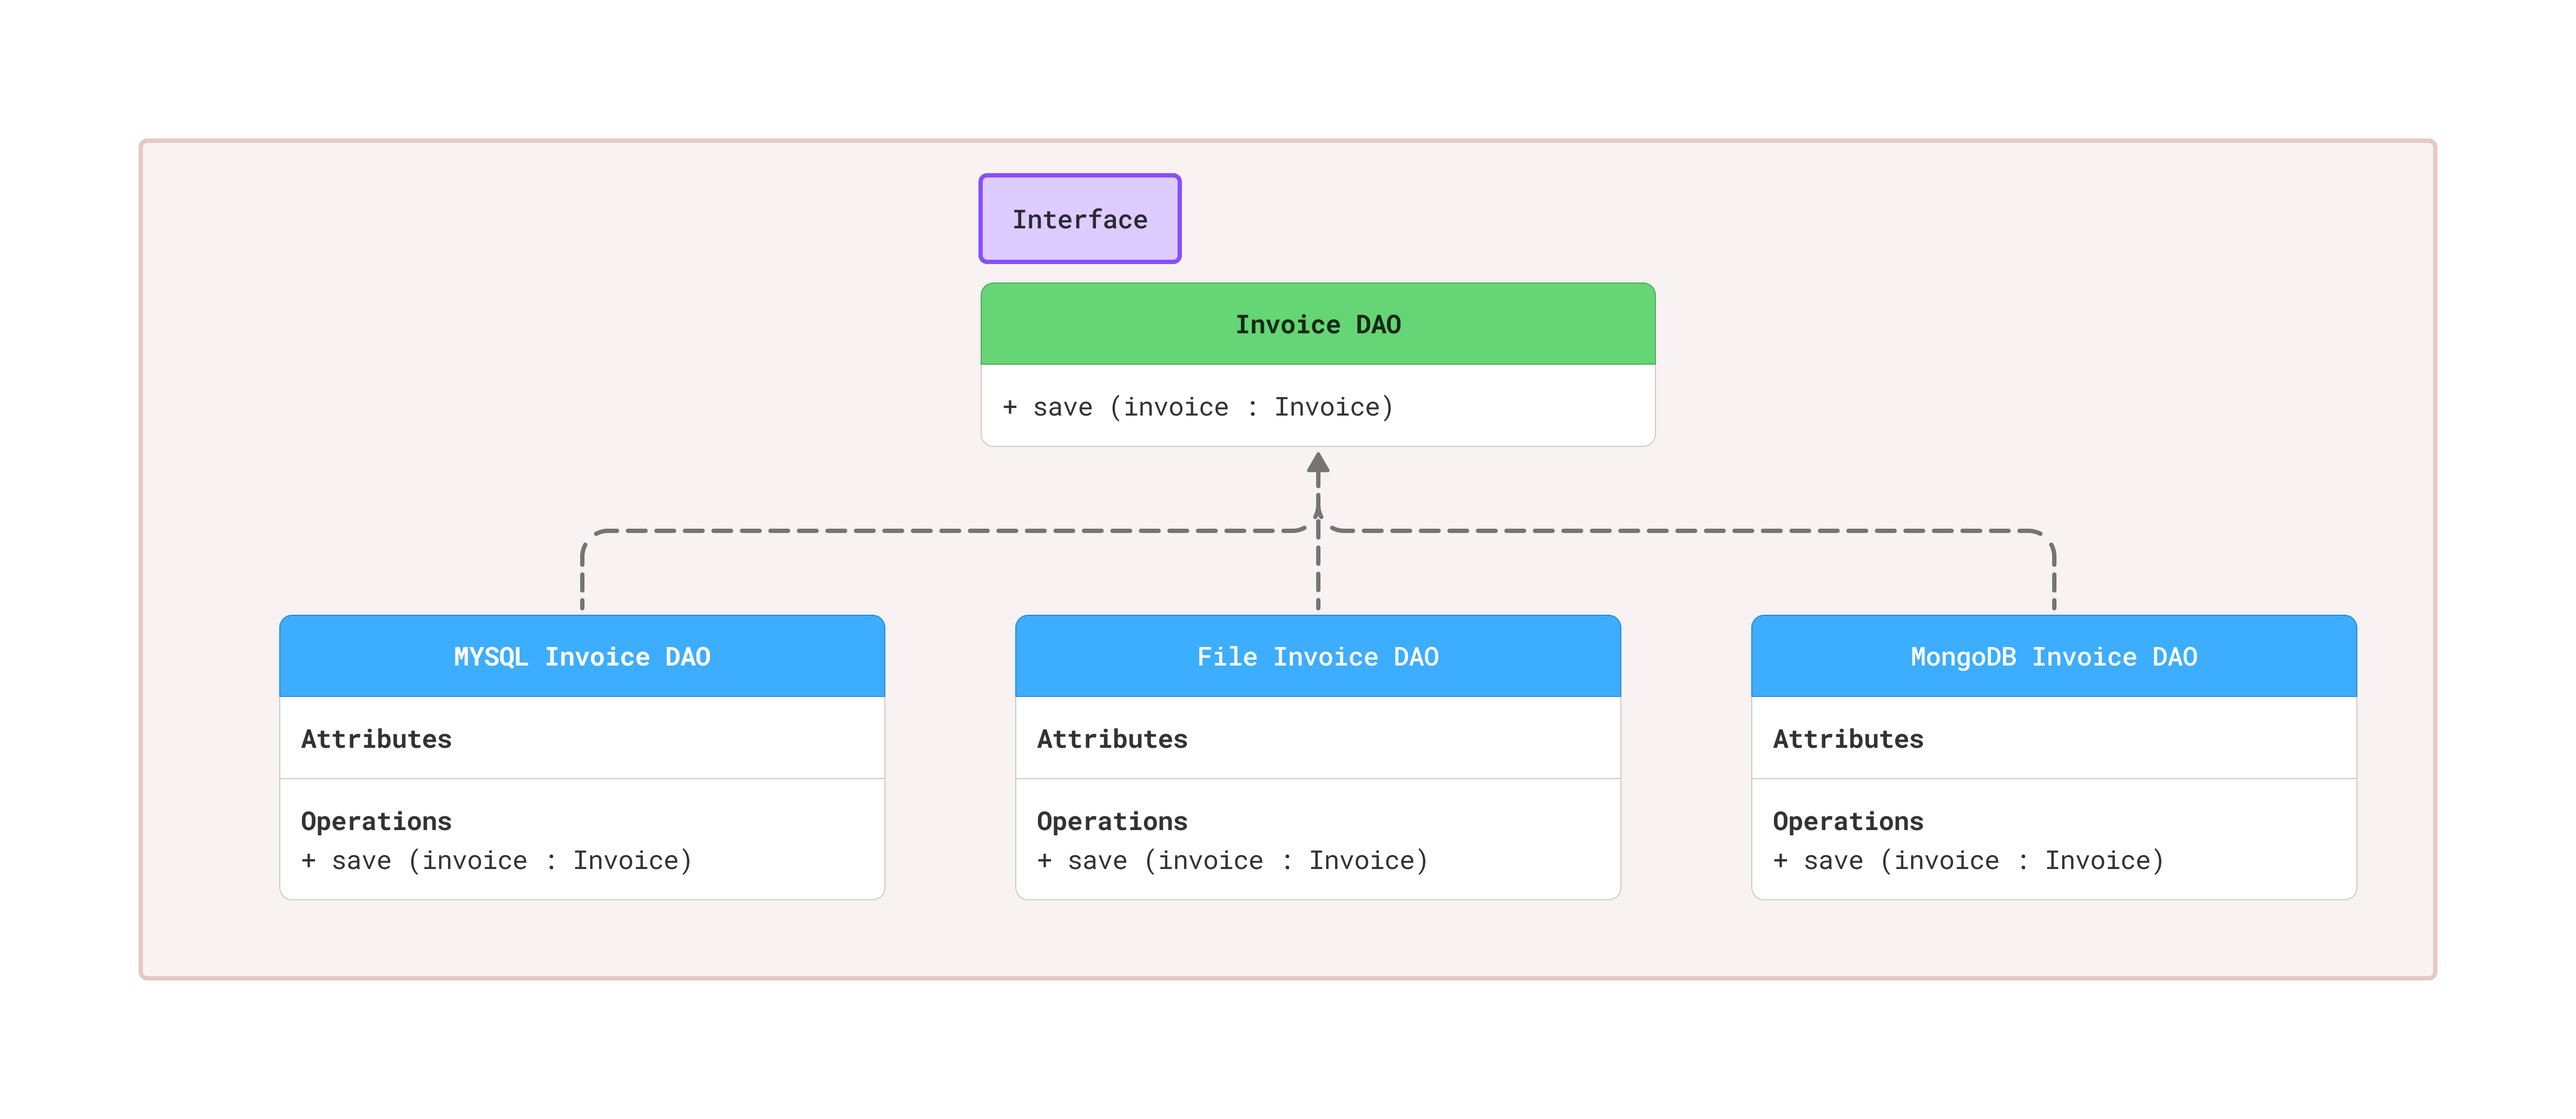
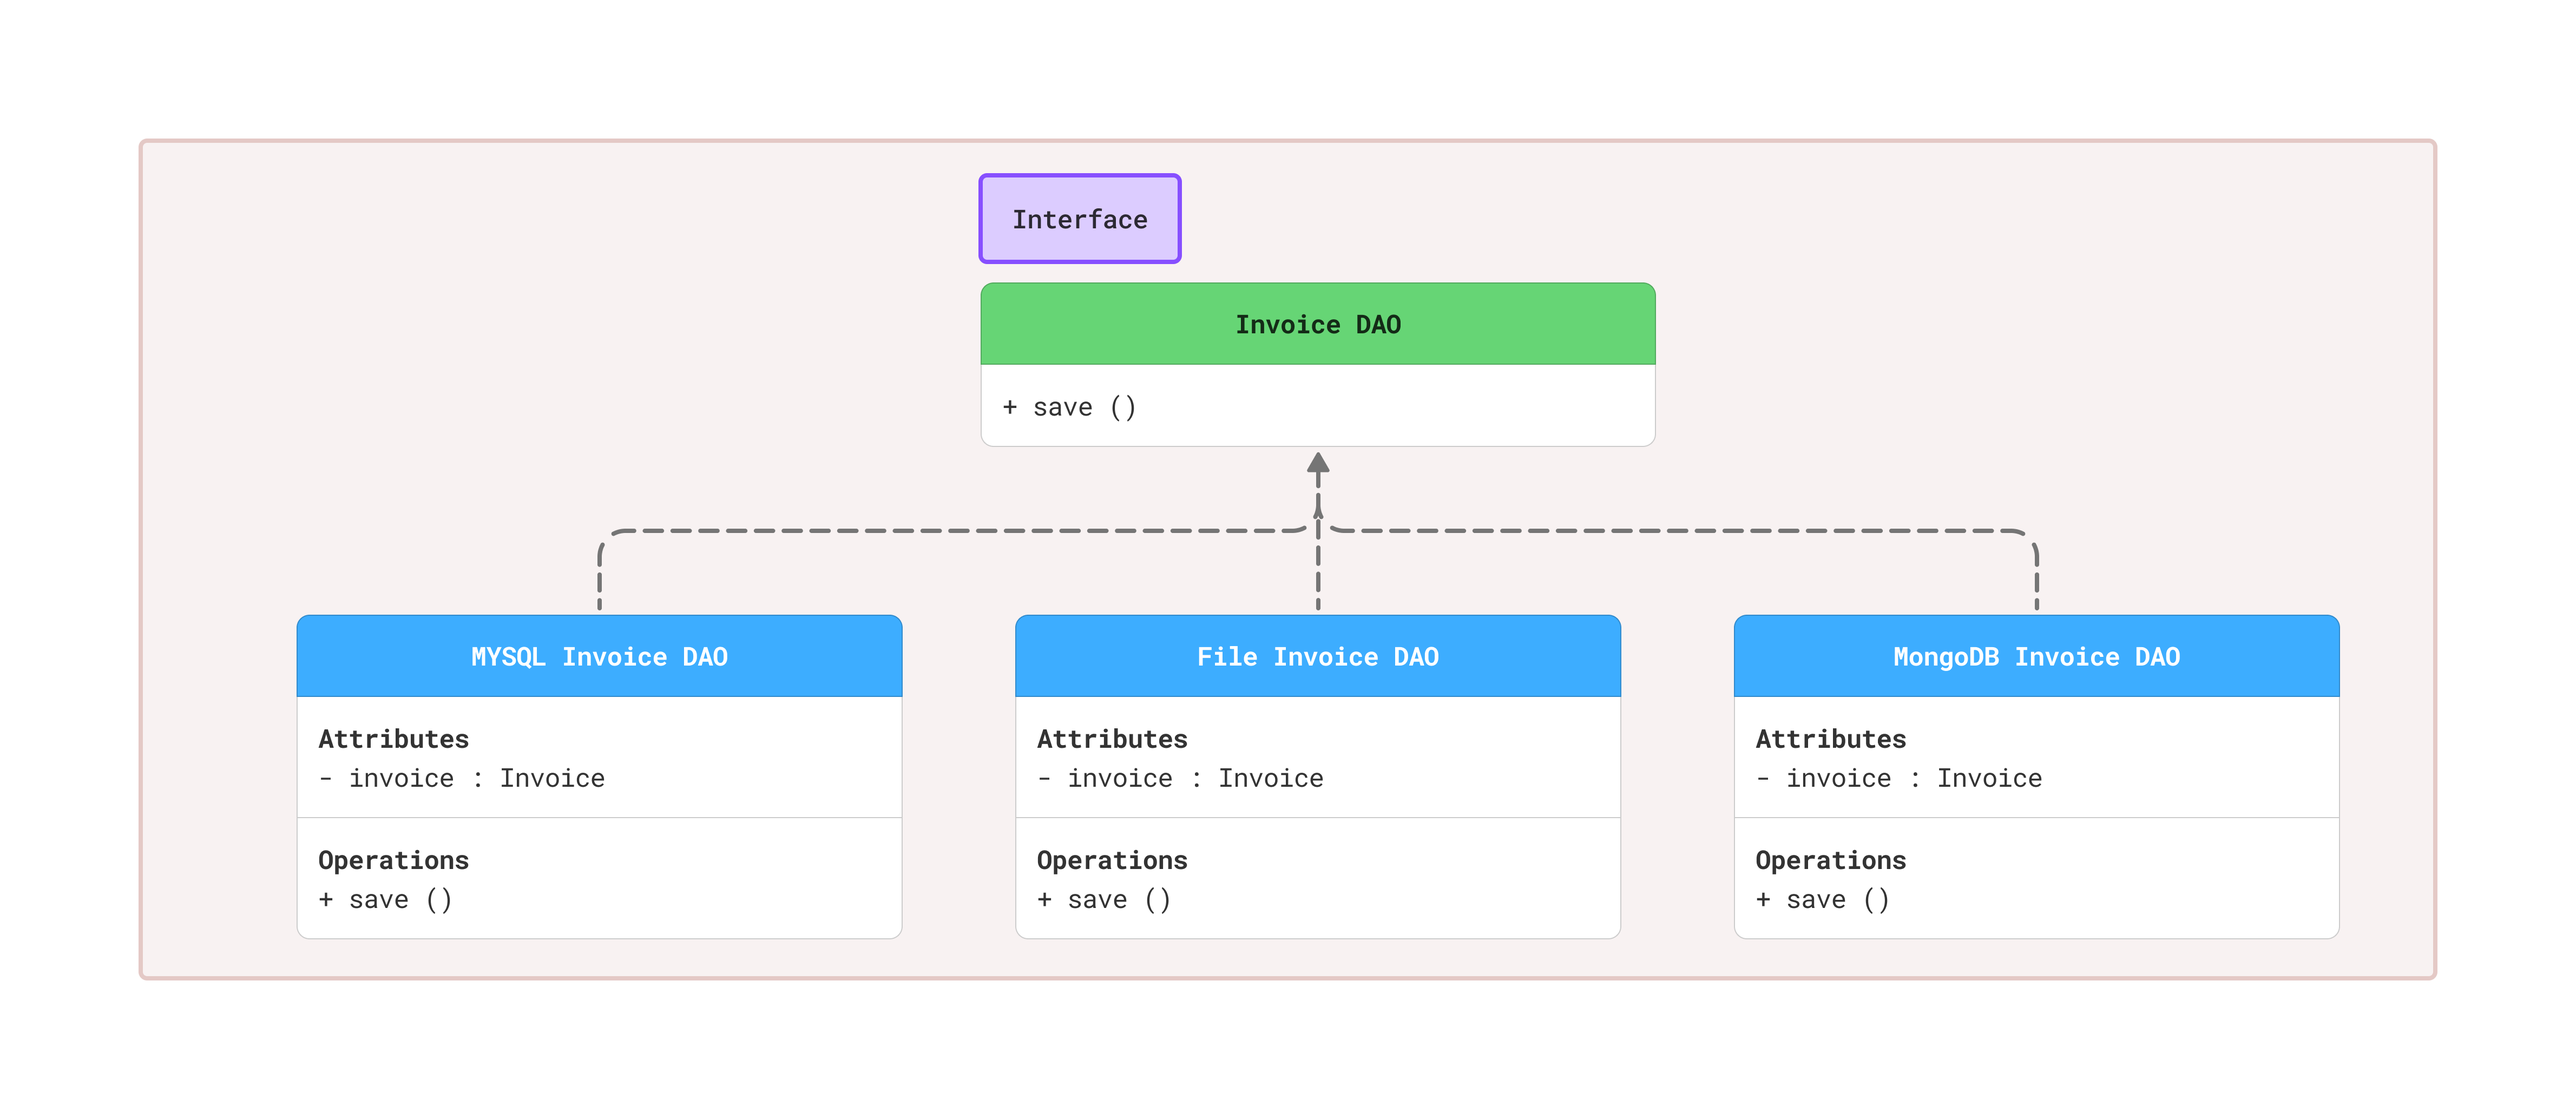
SOLID : Open Closed Principle

diff --git a/src/solid/ocp/solution/Main.java b/src/solid/ocp/solution/Main.java
@@ -1,0 +1,22 @@
+package solid.ocp.solution;
+
+import solid.ocp.solution.invoiceDAO.FileInvoiceDAO;
+import solid.ocp.solution.invoice.Invoice;
+import solid.ocp.solution.invoiceDAO.MongoDBInvoiceDAO;
+import solid.ocp.solution.invoiceDAO.MySQLInvoiceDAO;
+import solid.ocp.solution.marker.Marker;
+
+public class Main {
+    public static void main(String[] args) {
+        Marker marker = new Marker("Reynolds", "Pink", 2025, 90);
+        Invoice invoice = new Invoice(marker, 324);
+
+        FileInvoiceDAO fileInvoiceDAO = new FileInvoiceDAO(invoice);
+        MongoDBInvoiceDAO mongoDBInvoiceDAO = new MongoDBInvoiceDAO(invoice);
+        MySQLInvoiceDAO mySQLInvoiceDAO = new MySQLInvoiceDAO(invoice);
+
+        fileInvoiceDAO.save();
+        mongoDBInvoiceDAO.save();
+        mySQLInvoiceDAO.save();
+    }
+}

diff --git a/src/solid/ocp/problem/Main.java b/src/solid/ocp/problem/Main.java
@@ -1,0 +1,19 @@
+package solid.ocp.problem;
+
+import solid.ocp.problem.invoice.Invoice;
+import solid.ocp.problem.invoice.InvoiceDAO;
+import solid.ocp.problem.marker.Marker;
+
+public class Main {
+    public static void main(String[] args) {
+        Marker marker = new Marker("Reynolds", "Green", 2025, 90);
+        Invoice invoice = new Invoice(marker, 68);
+        InvoiceDAO invoiceDAO = new InvoiceDAO(invoice);
+
+        int totalPrice = invoice.calculateTotal();
+        System.out.println(totalPrice);
+
+        invoiceDAO.saveToDB();
+        invoiceDAO.saveToFile();
+    }
+}

diff --git a/src/solid/ocp/solution/invoice/Invoice.java b/src/solid/ocp/solution/invoice/Invoice.java
@@ -1,0 +1,19 @@
+package solid.ocp.solution.invoice;
+
+import solid.ocp.solution.marker.Marker;
+
+public class Invoice {
+    final private Marker marker;
+    final private int qty;
+    private int totalPrice;
+
+    public Invoice(Marker marker, int qty) {
+        this.marker = marker;
+        this.qty = qty;
+    }
+
+    public int calculateTotal () {
+        this.totalPrice = this.marker.price * this.qty;
+        return this.totalPrice;
+    }
+}

diff --git a/src/solid/ocp/problem/invoice/Invoice.java b/src/solid/ocp/problem/invoice/Invoice.java
@@ -1,0 +1,19 @@
+package solid.ocp.problem.invoice;
+
+import solid.ocp.problem.marker.Marker;
+
+public class Invoice {
+    final private Marker marker;
+    final private int qty;
+    private int totalPrice;
+
+    public Invoice(Marker marker, int qty) {
+        this.marker = marker;
+        this.qty = qty;
+    }
+
+    public int calculateTotal () {
+        this.totalPrice = this.marker.price * this.qty;
+        return this.totalPrice;
+    }
+}

diff --git a/src/solid/ocp/solution/invoiceDAO/MongoDBInvoiceDAO.java b/src/solid/ocp/solution/invoiceDAO/MongoDBInvoiceDAO.java
@@ -1,0 +1,17 @@
+package solid.ocp.solution.invoiceDAO;
+
+import solid.ocp.solution.invoice.Invoice;
+
+public class MongoDBInvoiceDAO implements InvoiceDAO {
+
+    private Invoice invoice;
+
+    public MongoDBInvoiceDAO(Invoice invoice) {
+        this.invoice = invoice;
+    }
+
+    @Override
+    public void save() {
+        System.out.println("Saved Invoice in MongoDB Database....");
+    }
+}

diff --git a/src/solid/ocp/solution/invoiceDAO/MySQLInvoiceDAO.java b/src/solid/ocp/solution/invoiceDAO/MySQLInvoiceDAO.java
@@ -1,0 +1,17 @@
+package solid.ocp.solution.invoiceDAO;
+
+import solid.ocp.solution.invoice.Invoice;
+
+public class MySQLInvoiceDAO implements InvoiceDAO {
+
+    private Invoice invoice;
+
+    public MySQLInvoiceDAO(Invoice invoice) {
+        this.invoice = invoice;
+    }
+
+    @Override
+    public void save() {
+        System.out.println("Saved Invoice in MySQL Database....");
+    }
+}

diff --git a/src/solid/ocp/solution/invoiceDAO/FileInvoiceDAO.java b/src/solid/ocp/solution/invoiceDAO/FileInvoiceDAO.java
@@ -1,0 +1,17 @@
+package solid.ocp.solution.invoiceDAO;
+
+import solid.ocp.solution.invoice.Invoice;
+
+public class FileInvoiceDAO implements InvoiceDAO {
+
+    private Invoice invoice;
+
+    public FileInvoiceDAO (Invoice invoice) {
+        this.invoice = invoice;
+    }
+
+    @Override
+    public void save() {
+        System.out.println("Saved Invoice in File....");
+    }
+}

diff --git a/src/solid/ocp/problem/invoice/InvoiceDAO.java b/src/solid/ocp/problem/invoice/InvoiceDAO.java
@@ -1,0 +1,17 @@
+package solid.ocp.problem.invoice;
+
+public class InvoiceDAO {
+    private Invoice invoice;
+
+    public InvoiceDAO (Invoice invoice) {
+        this.invoice = invoice;
+    }
+
+    public void saveToDB () {
+        System.out.println("Saving to DB.");
+    }
+
+    public void saveToFile () {
+        System.out.println("Saving to File.");
+    }
+}

diff --git a/src/solid/ocp/solution/marker/Marker.java b/src/solid/ocp/solution/marker/Marker.java
@@ -1,0 +1,15 @@
+package solid.ocp.solution.marker;
+
+public class Marker {
+    public String name;
+    public String color;
+    public int year;
+    public int price;
+
+    public Marker (String name, String color, int year, int price) {
+        this.name = name;
+        this.color = color;
+        this.year = year;
+        this.price = price;
+    }
+}

diff --git a/src/solid/ocp/problem/marker/Marker.java b/src/solid/ocp/problem/marker/Marker.java
@@ -1,0 +1,15 @@
+package solid.ocp.problem.marker;
+
+public class Marker {
+    public String name;
+    public String color;
+    public int year;
+    public int price;
+
+    public Marker (String name, String color, int year, int price) {
+        this.name = name;
+        this.color = color;
+        this.year = year;
+        this.price = price;
+    }
+}

diff --git a/src/solid/ocp/solution/invoiceDAO/InvoiceDAO.java b/src/solid/ocp/solution/invoiceDAO/InvoiceDAO.java
@@ -1,0 +1,5 @@
+package solid.ocp.solution.invoiceDAO;
+
+public interface InvoiceDAO {
+    public void save ();
+}
